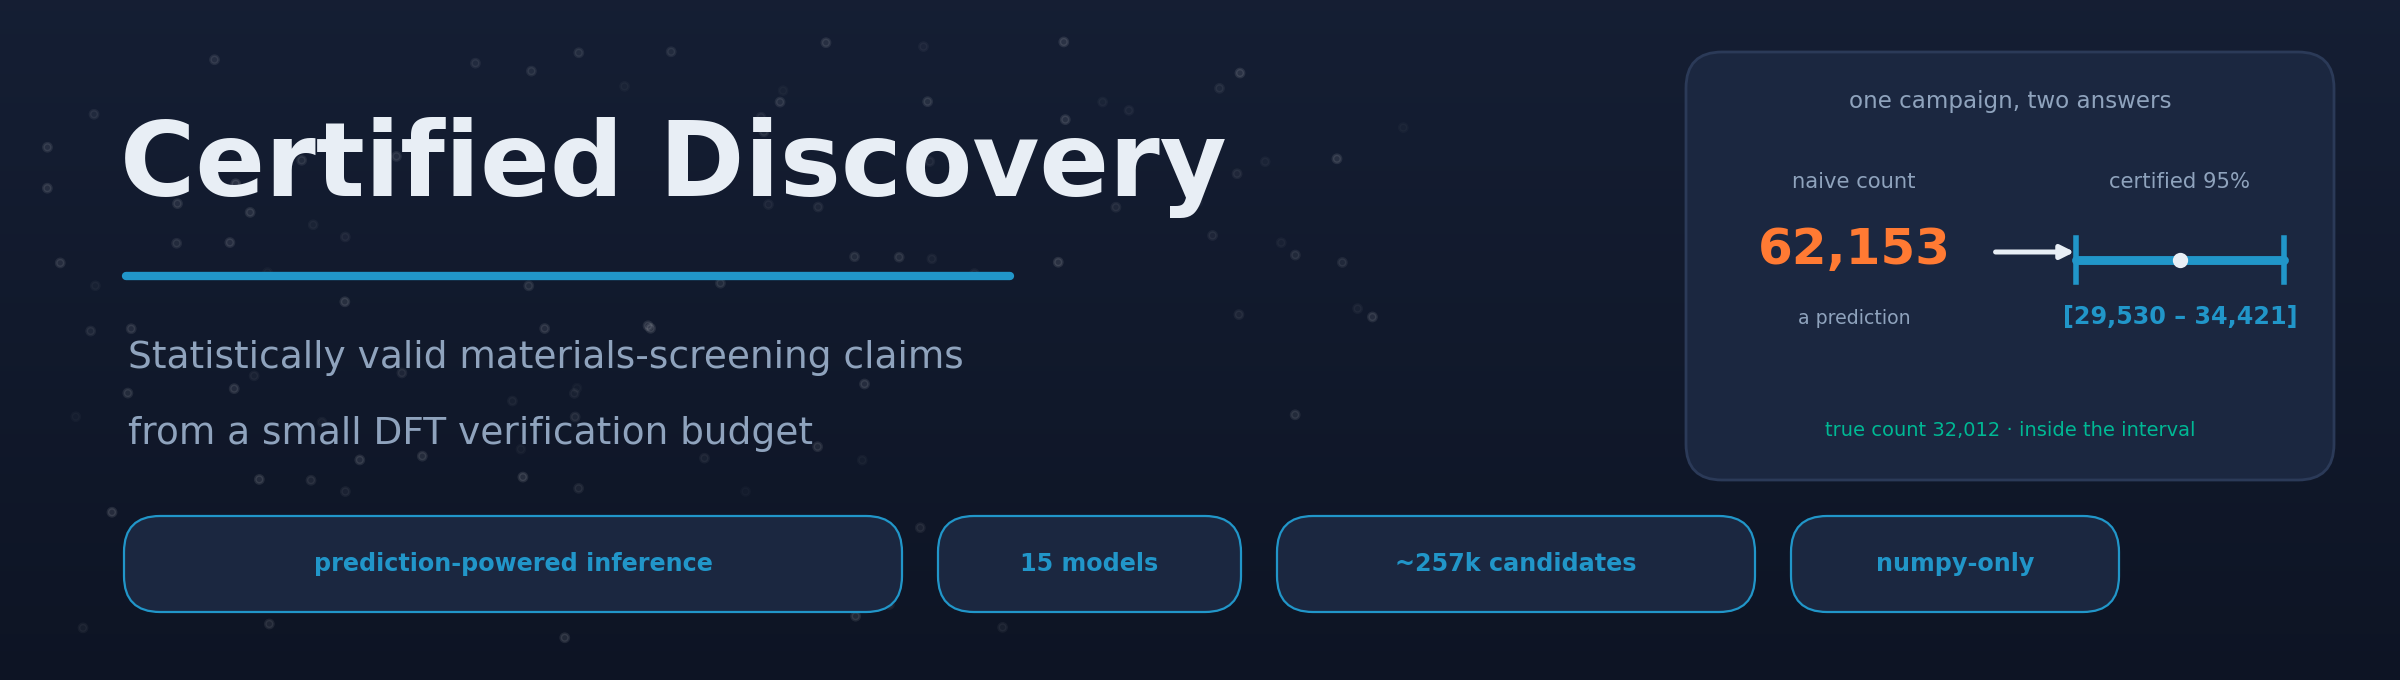
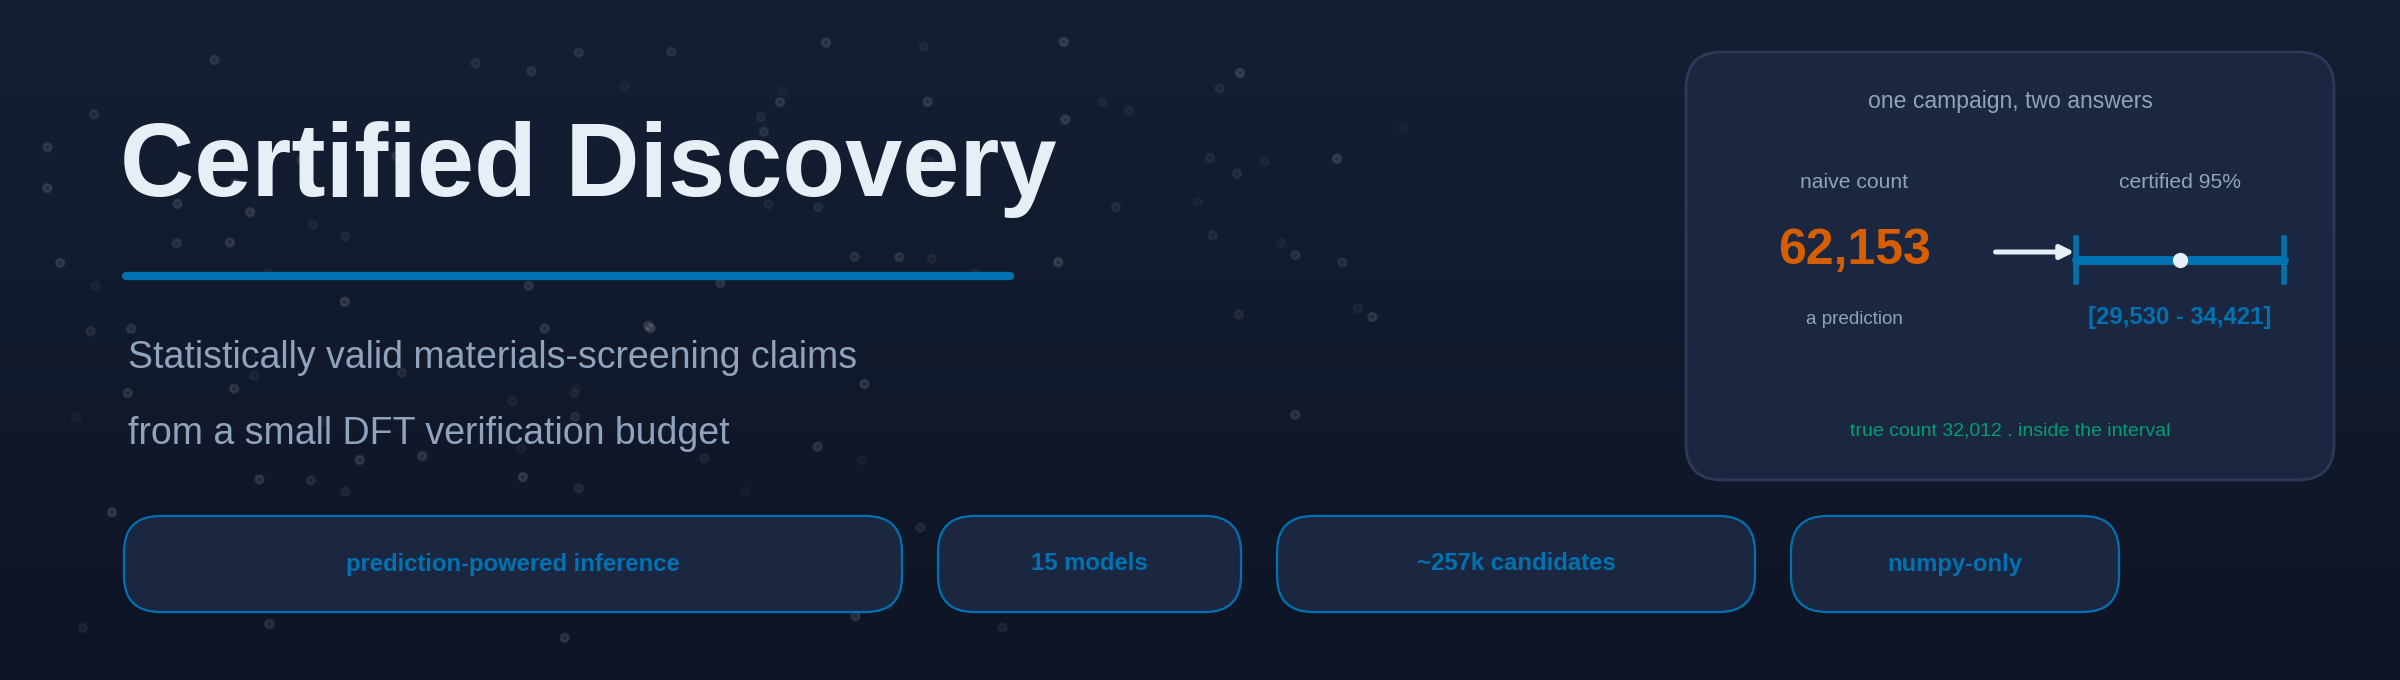
updates

diff --git a/figures/make_assets.py b/figures/make_assets.py
@@ -1,0 +1,177 @@
+#!/usr/bin/env python3
+"""Build the branded README assets: the hero banner, the method diagram, and the
+headline overstatement figure.
+
+Outputs are written to docs/assets/. The overstatement figure reads the released
+result files in data/; the hero and method diagram are self-contained. Run from
+the repository root:
+
+    python figures/make_assets.py
+"""
+import os
+import numpy as np
+import pandas as pd
+import matplotlib
+matplotlib.use("Agg")
+import matplotlib.pyplot as plt
+import matplotlib.colors as mc
+from matplotlib.patches import Circle, FancyBboxPatch
+from matplotlib.lines import Line2D
+
+ASSETS = "docs/assets"
+DATA = "data"
+os.makedirs(ASSETS, exist_ok=True)
+
+# Shared palette (Okabe-Ito derived), used across every asset.
+OKB, OKV, OKG = "#0072B2", "#D55E00", "#009E73"
+plt.rcParams.update({
+    "font.family": "sans-serif",
+    "font.sans-serif": ["Liberation Sans", "Arial", "DejaVu Sans"],
+})
+
+
+def _tint(hexc, amt=0.11):
+    r, g, b = mc.to_rgb(hexc)
+    return (1 - (1 - r) * amt, 1 - (1 - g) * amt, 1 - (1 - b) * amt)
+
+
+def build_hero(path=f"{ASSETS}/hero.png"):
+    """Dark branded header with the count-to-interval story card."""
+    HB, CARD, TXT, SUB = "#0072B2", "#1b2740", "#e8eef5", "#8fa3bd"
+    fig = plt.figure(figsize=(12, 3.4), dpi=200)
+    ax = fig.add_axes([0, 0, 1, 1])
+    ax.set_xlim(0, 12)
+    ax.set_ylim(0, 3.4)
+    ax.axis("off")
+    for yy in np.linspace(0, 3.4, 120):
+        t = yy / 3.4
+        ax.add_patch(plt.Rectangle((0, yy), 12, 3.4 / 120 + 0.02,
+                                   facecolor=(0.051 + 0.03 * t, 0.078 + 0.04 * t, 0.141 + 0.06 * t),
+                                   lw=0, zorder=0))
+    rng = np.random.default_rng(7)
+    for _ in range(110):
+        ax.add_patch(Circle((rng.uniform(0.2, 7.3), rng.uniform(0.2, 3.2)), 0.02,
+                            color="white", alpha=rng.uniform(0.02, 0.10), zorder=1))
+    ax.text(0.6, 2.42, "Certified Discovery", fontsize=37, fontweight="bold", color=TXT, zorder=5)
+    ax.plot([0.63, 5.05], [2.02, 2.02], color=HB, lw=3, zorder=5, solid_capstyle="round")
+    ax.text(0.64, 1.56, "Statistically valid materials-screening claims", fontsize=13.5, color=SUB, zorder=5)
+    ax.text(0.64, 1.18, "from a small DFT verification budget", fontsize=13.5, color=SUB, zorder=5)
+    cx = 0.64
+    for ch in ["prediction-powered inference", "15 models", "~257k candidates", "numpy-only"]:
+        w = 0.125 * len(ch) + 0.35
+        ax.add_patch(FancyBboxPatch((cx, 0.36), w, 0.44, boxstyle="round,pad=0.02,rounding_size=0.18",
+                                    facecolor=CARD, edgecolor=HB, lw=0.8, zorder=4))
+        ax.text(cx + w / 2, 0.58, ch, fontsize=8.6, color=HB, ha="center", va="center", fontweight="bold", zorder=5)
+        cx += w + 0.22
+    px, py, pw, ph = 8.45, 1.02, 3.20, 2.10
+    ax.add_patch(FancyBboxPatch((px, py), pw, ph, boxstyle="round,pad=0.02,rounding_size=0.18",
+                                facecolor=CARD, edgecolor="#2b3a58", lw=1.0, zorder=3))
+    midx = px + pw / 2
+    ax.text(midx, py + ph - 0.26, "one campaign, two answers", fontsize=8.3, color=SUB, ha="center", zorder=5)
+    ax.text(px + 0.82, py + ph - 0.66, "naive count", fontsize=7.6, color=SUB, ha="center", zorder=5)
+    ax.text(px + 0.82, py + ph - 1.04, "62,153", fontsize=18, color=OKV, ha="center", fontweight="bold", zorder=5)
+    ax.text(px + 0.82, py + ph - 1.34, "a prediction", fontsize=6.8, color=SUB, ha="center", zorder=5)
+    ax.annotate("", xy=(px + 1.95, py + ph - 0.98), xytext=(px + 1.50, py + ph - 0.98),
+                arrowprops=dict(arrowstyle="-|>", color=TXT, lw=1.8), zorder=5)
+    icx = px + 2.45
+    ax.text(icx, py + ph - 0.66, "certified 95%", fontsize=7.6, color=SUB, ha="center", zorder=5)
+    ax.plot([icx - 0.52, icx + 0.52], [py + ph - 1.02] * 2, color=HB, lw=3.2, zorder=5, solid_capstyle="round")
+    for xx in (icx - 0.52, icx + 0.52):
+        ax.plot([xx, xx], [py + ph - 1.13, py + ph - 0.91], color=HB, lw=2.0, zorder=5)
+    ax.plot([icx], [py + ph - 1.02], "o", ms=4.5, color=TXT, zorder=6)
+    ax.text(icx, py + ph - 1.34, "[29,530 - 34,421]", fontsize=8.6, color=HB, ha="center", fontweight="bold", zorder=5)
+    ax.text(midx, py + 0.20, "true count 32,012 . inside the interval", fontsize=7.0, color=OKG, ha="center", zorder=5)
+    fig.savefig(path, dpi=200, facecolor="#0d1424")
+    plt.close(fig)
+    print(f"  wrote {path}")
+
+
+def build_method(path=f"{ASSETS}/method.png"):
+    """Four-step certification pipeline with the estimator equation."""
+    INK, GREY = "#2b3a58", "#7a8aa0"
+    fig, ax = plt.subplots(figsize=(10, 2.9), dpi=200)
+    ax.set_xlim(0, 10)
+    ax.set_ylim(0, 2.9)
+    ax.axis("off")
+
+    def box(x, y, w, h, num, title, sub, color):
+        ax.add_patch(FancyBboxPatch((x, y), w, h, boxstyle="round,pad=0.02,rounding_size=0.14",
+                                    linewidth=1.6, edgecolor=color, facecolor=_tint(color, 0.11), zorder=2))
+        ax.add_patch(plt.Circle((x + 0.32, y + h - 0.30), 0.17, facecolor=color, zorder=3))
+        ax.text(x + 0.32, y + h - 0.30, num, fontsize=8.5, fontweight="bold", ha="center", va="center", color="white", zorder=4)
+        ax.text(x + 0.60, y + h - 0.30, title, fontsize=10, fontweight="bold", ha="left", va="center", color=color, zorder=3)
+        ax.text(x + w / 2, y + h / 2 - 0.28, sub, fontsize=7.4, ha="center", va="center", color="#48566b", zorder=3)
+
+    y, h, w = 0.95, 1.05, 2.15
+    xs = [0.15, 2.65, 5.15, 7.65]
+    data = [("1", "Screen", "model flags N\ncandidates (pool S)", OKV),
+            ("2", "Verify", "reveal DFT labels for\nn random items of S", OKG),
+            ("3", "Certify", "prediction-powered\ninterval for the count", OKB),
+            ("4", "Budget", "closed-form n for a\ntarget precision", INK)]
+    for x, (n, t, s, c) in zip(xs, data):
+        box(x, y, w, h, n, t, s, c)
+    for i in range(3):
+        ax.annotate("", xy=(xs[i + 1] - 0.05, y + h / 2), xytext=(xs[i] + w + 0.05, y + h / 2),
+                    arrowprops=dict(arrowstyle="-|>", color=GREY, lw=1.8), zorder=2)
+    ax.text(0.15, 2.58, "How certification works", fontsize=12.5, fontweight="bold", color="#1a2540")
+    ax.text(0.16, 2.28, "labels sampled uniformly from the screened pool   .   interval never wider than label-only   .   numpy-only",
+            fontsize=7.6, color=GREY)
+    ax.text(5.0, 0.44, r"$\hat\pi = \lambda\,\bar f \;+\; \dfrac{1}{n}\sum_{i\in\mathcal{L}}(y_i-\lambda f_i)$",
+            fontsize=13, ha="center", color=OKB)
+    ax.text(5.0, 0.05, "predictions on all of S   +   bias measured on the verified sample",
+            fontsize=7.4, ha="center", color=GREY)
+    fig.savefig(path, dpi=200, facecolor="white", bbox_inches="tight")
+    plt.close(fig)
+    print(f"  wrote {path}")
+
+
+def build_overstatement(path=f"{ASSETS}/overstatement.png"):
+    """Headline: overstatement versus model accuracy, from data/."""
+    t1 = pd.read_csv(f"{DATA}/table1_raw.csv")
+    mae = pd.read_csv(f"{DATA}/model_mae.csv").set_index("model")
+    f0 = t1[(t1.pool == "full") & (t1.tau == 0.0)].set_index("model")
+    FR = ["EquiformerV3+DeNS-OAM", "eSEN-30M-OAM", "PET-OAM-XL", "GRACE-2L-OAM", "ORB v3",
+          "SevenNet-MF-ompa", "MACE-MPA-0", "MatRIS-10M-OAM", "DPA3-v1-OpenLAM", "MatterSim v1 5M"]
+    CL = ["CHGNet", "M3GNet", "ALIGNN", "MEGNet", "CGCNN"]
+    plt.rcParams.update({"font.size": 8.5, "axes.linewidth": 0.7,
+                         "axes.spines.top": False, "axes.spines.right": False,
+                         "xtick.major.width": 0.7, "ytick.major.width": 0.7})
+    fig, ax = plt.subplots(figsize=(6.6, 3.3))
+    ax.axhspan(0, 25, color=OKB, alpha=0.06, lw=0)
+    ax.axhspan(90, 130, color=OKV, alpha=0.06, lw=0)
+    for m in FR:
+        ax.scatter(mae.loc[m, "mae_eV_per_atom"], f0.loc[m, "overstate_pct"], s=46, color=OKB, edgecolor="white", lw=0.7, zorder=3)
+    for m in CL:
+        ax.scatter(mae.loc[m, "mae_eV_per_atom"], f0.loc[m, "overstate_pct"], s=46, color=OKV, edgecolor="white", lw=0.7, zorder=3)
+    best = "EquiformerV3+DeNS-OAM"
+    phantom = int(f0.loc[best, "flagged"] - f0.loc[best, "true"])
+    ax.annotate(f"EquiformerV3+DeNS-OAM\nmost accurate 2026 model\nstill {f0.loc[best,'overstate_pct']:.1f}% ({phantom:,} phantom)",
+                xy=(mae.loc[best, "mae_eV_per_atom"], f0.loc[best, "overstate_pct"]),
+                xytext=(0.036, 33), fontsize=7.0, color=OKB,
+                arrowprops=dict(arrowstyle="->", color=OKB, lw=0.8, connectionstyle="arc3,rad=-0.2"))
+    ax.annotate(f"CGCNN\n{f0.loc['CGCNN','overstate_pct']:.1f}%",
+                xy=(mae.loc["CGCNN", "mae_eV_per_atom"], f0.loc["CGCNN", "overstate_pct"]),
+                xytext=(0.128, 100), fontsize=7.0, color=OKV, ha="center",
+                arrowprops=dict(arrowstyle="->", color=OKV, lw=0.8))
+    ax.text(0.088, 15, "frontier models\n10-21% (mean 14%)", color=OKB, fontsize=7.8, fontweight="bold", ha="left", va="center")
+    ax.text(0.020, 112, "earlier graph networks 94-124%", color=OKV, fontsize=7.8, fontweight="bold", ha="left", va="center")
+    ax.set_xlabel("formation-energy MAE (eV/atom)", fontsize=8.5)
+    ax.set_ylabel("overstatement of true\ndiscoveries (%)", fontsize=8.5)
+    ax.set_xlim(0.012, 0.145)
+    ax.set_ylim(0, 132)
+    ax.set_title("Naive counts overstate discoveries at every accuracy level", loc="left", fontsize=9.2, fontweight="bold", pad=8)
+    leg = [Line2D([], [], marker="o", ls="none", color=OKB, mec="white", mew=0.7, ms=7, label="current generation (10 models)"),
+           Line2D([], [], marker="o", ls="none", color=OKV, mec="white", mew=0.7, ms=7, label="earlier graph networks (5 models)")]
+    ax.legend(handles=leg, fontsize=7.0, loc="center left", bbox_to_anchor=(0.30, 0.60), frameon=False, handletextpad=0.4)
+    fig.tight_layout()
+    fig.savefig(path, dpi=300, bbox_inches="tight")
+    plt.close(fig)
+    print(f"  wrote {path}")
+
+
+if __name__ == "__main__":
+    print("Building README assets into docs/assets/ ...")
+    build_hero()
+    build_method()
+    build_overstatement()
+    print("done")

diff --git a/README.md b/README.md
@@ -122,7 +122,7 @@ script, and every figure regenerates from the same data:
 
 ```bash
 python scripts/verify_results.py        # reconciles all headline numbers -> 28/28 PASS
-python scripts/build_figures.py         # regenerates the paper figures (vector PDF + 600 dpi PNG)
+python figures/build_figures.py         # regenerates the paper figures (vector PDF + 600 dpi PNG)
 ```
 
 <details>
@@ -160,8 +160,10 @@ certified-discovery/
 │   ├── __init__.py       #   public API
 │   └── core.py           #   PPI/PPI++, counts, paired diffs, budget rule, stratified PPI
 ├── scripts/
-│   ├── verify_results.py #   independent re-derivation of every headline number (28/28)
-│   └── build_figures.py  #   regenerates the figures from data/
+│   └── verify_results.py #   independent re-derivation of every headline number (28/28)
+├── figures/
+│   ├── build_figures.py  #   regenerates the paper figures (Figs 2-3) from data/
+│   └── make_assets.py    #   regenerates the README visuals (hero, method, headline)
 ├── notebooks/analysis.ipynb   # the full study, end to end
 ├── data/                 # per-figure / per-table source data + SHA-256 manifest
 ├── tests/                # unit tests + smoke test (pytest)
@@ -174,7 +176,8 @@ Computational Science on publication (preprint on arXiv).
 ## Citing
 
 Please cite the paper and the software (see [`CITATION.cff`](CITATION.cff)). A
-`BibTeX` entry will be added on publication.
+`BibTeX` entry will be added on publication; the archived release will carry a
+Zenodo DOI.
 
 ## License
 

diff --git a/figures/README.md b/figures/README.md
@@ -1,0 +1,24 @@
+# figures/
+
+Scripts that regenerate every visual in the project from the data in `../data/`.
+Run them from the repository root.
+
+- **`build_figures.py`** — regenerates the paper figures (Figure 2, the synthetic
+  positive control, and Figure 3, the budget and calibration panels) as both
+  vector PDF and 600 dpi PNG.
+
+  ```bash
+  python figures/build_figures.py            # 600 dpi (default)
+  python figures/build_figures.py --dpi 300  # custom raster resolution
+  ```
+
+- **`make_assets.py`** — regenerates the README visuals (the hero banner, the
+  method diagram, and the headline overstatement figure) into `../docs/assets/`.
+
+  ```bash
+  python figures/make_assets.py
+  ```
+
+Both read the released result files in `../data/`; nothing here downloads data or
+recomputes results. To regenerate the underlying numbers, run
+`notebooks/analysis.ipynb`.

diff --git a/CHANGELOG.md b/CHANGELOG.md
@@ -14,6 +14,7 @@ All notable changes to this project are documented here. The format is based on
   coverage and budget-curve harnesses.
 - `scripts/verify_results.py` — independent re-derivation of every headline
   number in the paper (28 checks).
-- `scripts/build_figures.py` — regenerates Figures 2 and 3 (vector PDF + 600 dpi PNG).
+- `figures/build_figures.py` — regenerates Figures 2 and 3 (vector PDF + 600 dpi PNG).
+- `figures/make_assets.py` — regenerates the README visuals (hero, method diagram, headline figure).
 - `data/` — per-figure and per-table source data with an SHA-256 manifest.
 - Full test suite, CI, and API/methods documentation.
